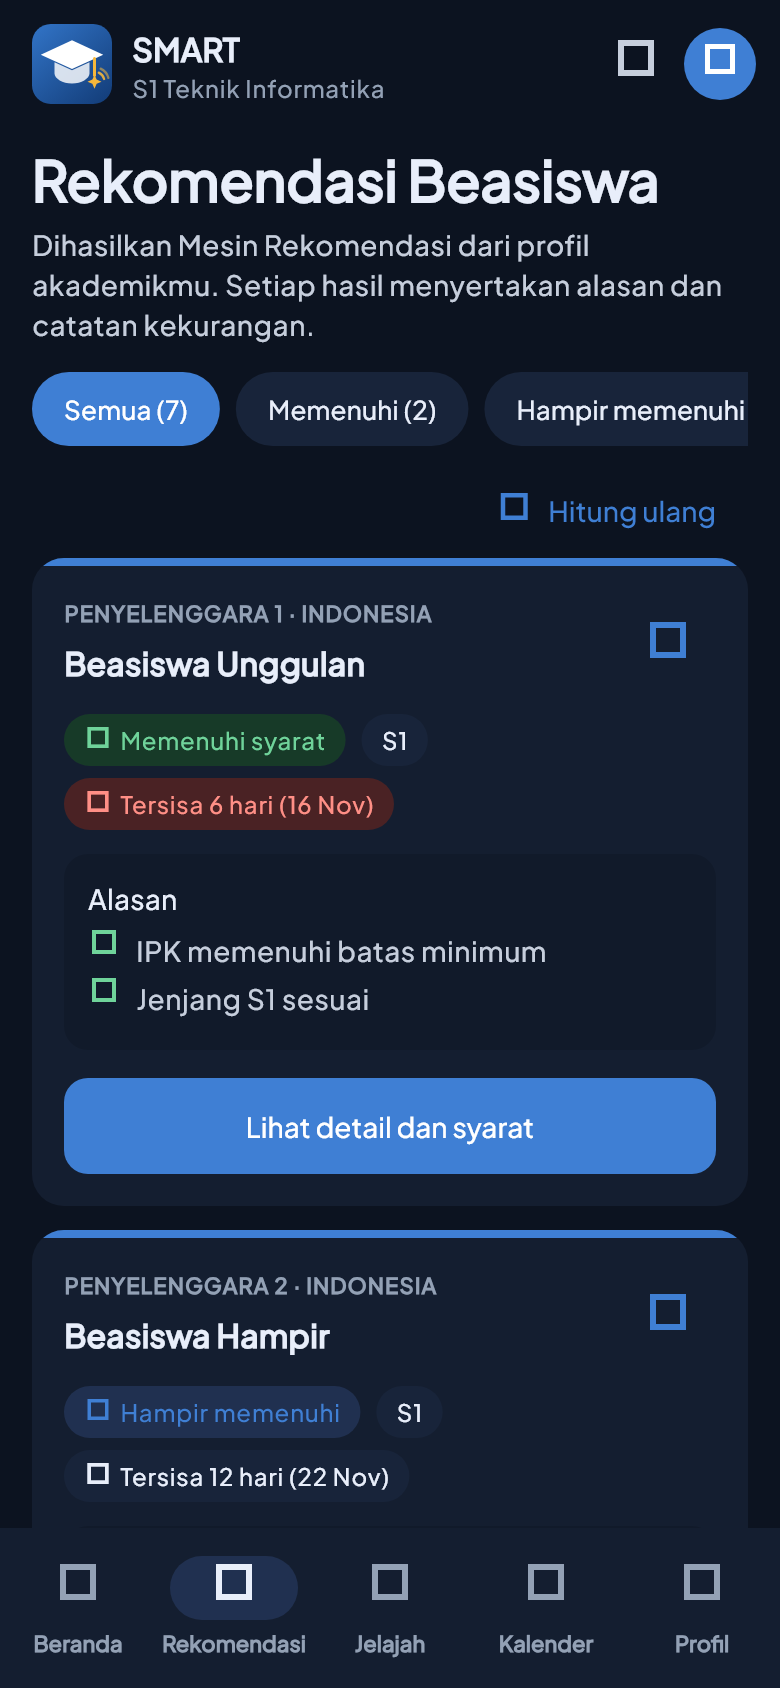
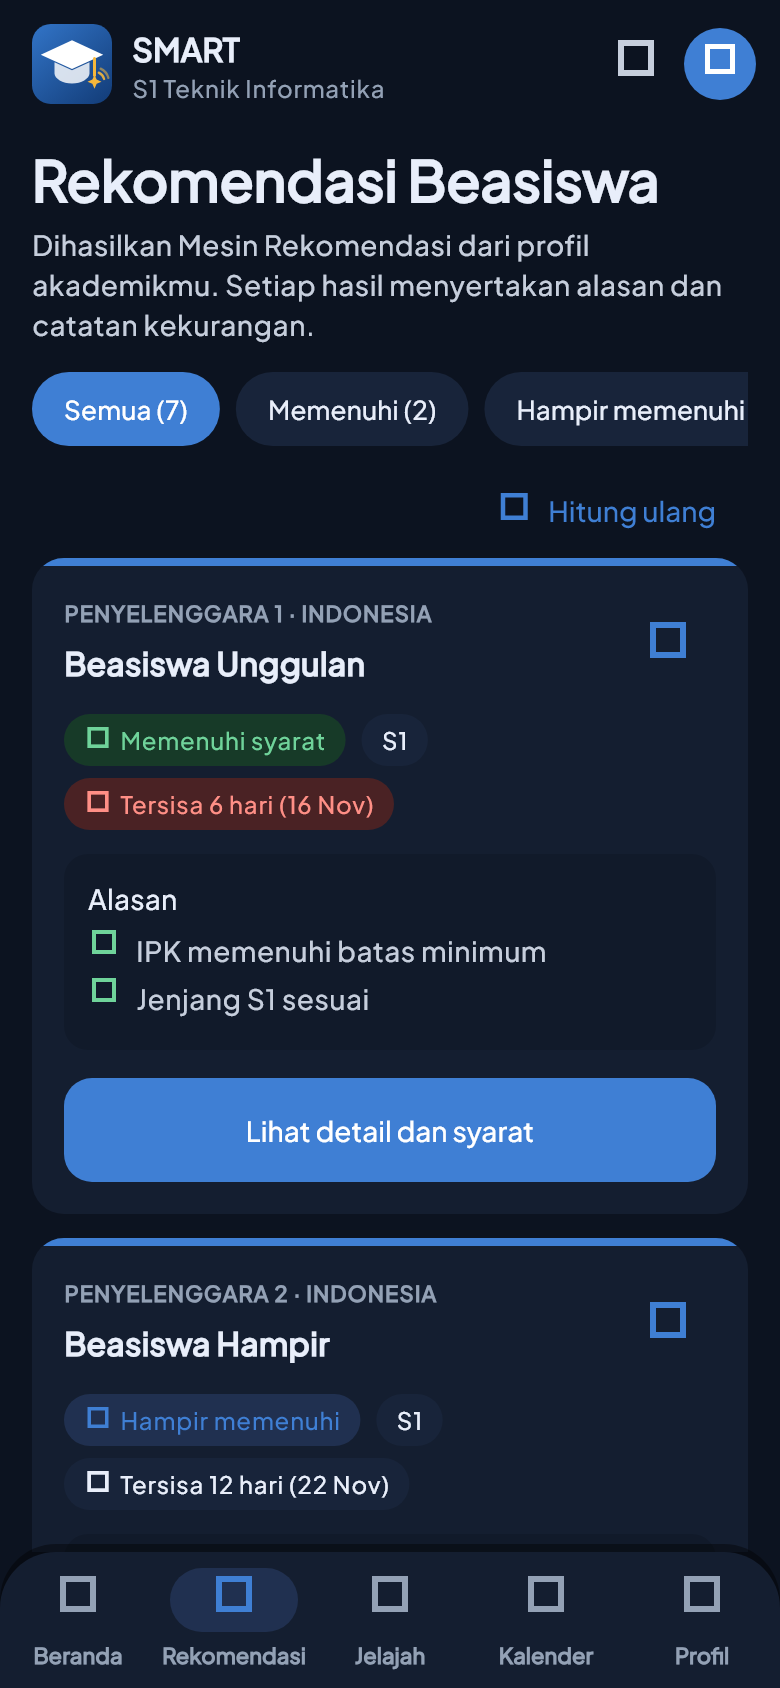
feat(mobile): beranda dengan hero bergradasi, navigasi bawah kapsul, tombol lebih besar

diff --git a/apps/mobile/lib/features/beranda/presentation/beranda_page.dart b/apps/mobile/lib/features/beranda/presentation/beranda_page.dart
@@ -41,75 +41,64 @@ class BerandaPage extends ConsumerWidget {
         child: ListView(
           padding: const EdgeInsets.fromLTRB(16, 8, 16, 24),
           children: [
-            if (p != null && (p.jenjang ?? '').isNotEmpty)
-              Padding(
-                padding: const EdgeInsets.only(bottom: 8),
-                child: Align(
-                  alignment: Alignment.centerLeft,
-                  child: ChipStatus(
-                    label: [
+            _Hero(
+              nama: p?.namaDepan ?? 'Mahasiswa',
+              info: p != null && (p.jenjang ?? '').isNotEmpty
+                  ? [
                       if (p.semester != null) 'Semester ${p.semester}',
                       p.jenjang!,
                       if ((p.ipk ?? '').isNotEmpty) 'IPK ${p.ipk}',
-                    ].join(' · '),
+                    ].join(' · ')
+                  : null,
+              terisi: kel?.terisi ?? 0,
+              total: kel?.total ?? 0,
+              onLengkapi: () => context.go('/profil'),
+              ringkasan: ringkasan.when(
+                loading: () => const SizedBox(
+                  height: 64,
+                  child: Center(
+                    child: CircularProgressIndicator(
+                      strokeWidth: 2,
+                      color: Colors.white,
+                    ),
                   ),
                 ),
-              ),
-            Text(
-              'Halo, ${p?.namaDepan ?? 'Mahasiswa'}',
-              style: t.headlineMedium,
-            ),
-            const SizedBox(height: 4),
-            Text(
-              'Lihat beasiswa yang paling sesuai dengan profilmu dan tenggat yang perlu dikejar.',
-              style: t.bodyMedium,
-            ),
-            const SizedBox(height: 16),
-            if (kel != null) _KartuProfil(terisi: kel.terisi, total: kel.total),
-            const SizedBox(height: 20),
-            const JudulBagian('Ringkasan Rekomendasi'),
-            const SizedBox(height: 8),
-            ringkasan.when(
-              loading: () => const SizedBox(height: 120, child: MemuatState()),
-              error: (e, _) => Padding(
-                padding: const EdgeInsets.symmetric(vertical: 16),
-                child: GalatState(
-                  pesan: pesanGalat(e),
-                  cobaLagi: () => ref.invalidate(ringkasanRekomendasiProvider),
+                error: (e, _) => Padding(
+                  padding: const EdgeInsets.symmetric(vertical: 8),
+                  child: Row(
+                    children: [
+                      Expanded(
+                        child: Text(
+                          pesanGalat(e),
+                          style: t.bodySmall?.copyWith(color: Colors.white),
+                        ),
+                      ),
+                      TextButton(
+                        style: TextButton.styleFrom(
+                          foregroundColor: Colors.white,
+                        ),
+                        onPressed: () =>
+                            ref.invalidate(ringkasanRekomendasiProvider),
+                        child: const Text('Coba lagi'),
+                      ),
+                    ],
+                  ),
                 ),
-              ),
-              data: (r) => IntrinsicHeight(
-                child: Row(
-                  crossAxisAlignment: CrossAxisAlignment.stretch,
+                data: (r) => Row(
+                  crossAxisAlignment: CrossAxisAlignment.start,
                   children: [
-                    Expanded(
-                      child: Metrik(
-                        angka: '${r.memenuhi}',
-                        label: 'Memenuhi',
-                        keterangan: 'Semua syarat',
-                        ikon: Icons.check_circle_outline,
-                        warna: Warna.sukses,
-                        latarIkon: Warna.suksesSoft,
-                      ),
+                    _Angka('${r.memenuhi}', 'Memenuhi', const Color(0xFF7BE0A4)),
+                    _Pemisah(),
+                    _Angka(
+                      '${r.hampirMemenuhi}',
+                      'Hampir memenuhi',
+                      const Color(0xFFFFD27A),
                     ),
-                    const SizedBox(width: 10),
-                    Expanded(
-                      child: Metrik(
-                        angka: '${r.hampirMemenuhi}',
-                        label: 'Hampir memenuhi',
-                        keterangan: 'Kurang sedikit',
-                        ikon: Icons.timelapse,
-                      ),
-                    ),
-                    const SizedBox(width: 10),
-                    Expanded(
-                      child: Metrik(
-                        angka: '${r.belumMemenuhi}',
-                        label: 'Belum memenuhi',
-                        keterangan: 'Syarat belum terpenuhi',
-                        ikon: Icons.lock_outline,
-                        warna: Warna.muted,
-                      ),
+                    _Pemisah(),
+                    _Angka(
+                      '${r.belumMemenuhi}',
+                      'Belum memenuhi',
+                      Colors.white70,
                     ),
                   ],
                 ),
@@ -232,47 +221,153 @@ class BerandaPage extends ConsumerWidget {
   }
 }
 
-class _KartuProfil extends StatelessWidget {
-  const _KartuProfil({required this.terisi, required this.total});
+class _Hero extends StatelessWidget {
+  const _Hero({
+    required this.nama,
+    required this.info,
+    required this.terisi,
+    required this.total,
+    required this.onLengkapi,
+    required this.ringkasan,
+  });
 
+  final String nama;
+  final String? info;
   final int terisi;
   final int total;
+  final VoidCallback onLengkapi;
+  final Widget ringkasan;
 
   @override
   Widget build(BuildContext context) {
     final t = Theme.of(context).textTheme;
-    final lengkap = terisi == total;
+    final lengkap = total > 0 && terisi == total;
     return Container(
-      padding: const EdgeInsets.all(16),
+      padding: const EdgeInsets.fromLTRB(20, 20, 20, 16),
       decoration: BoxDecoration(
-        color: Warna.kartu,
-        borderRadius: BorderRadius.circular(Jari.kartu),
-        boxShadow: bayanganKartu,
+        gradient: const LinearGradient(
+          begin: Alignment.topLeft,
+          end: Alignment.bottomRight,
+          colors: [Color(0xFF2F6FC0), Color(0xFF143F7C)],
+        ),
+        borderRadius: BorderRadius.circular(24),
       ),
       child: Column(
         crossAxisAlignment: CrossAxisAlignment.start,
         children: [
-          Row(
-            children: [
-              Icon(Icons.fact_check_outlined, color: Warna.primary),
-              const SizedBox(width: 10),
-              Expanded(child: Text('Kelengkapan Profil', style: t.titleMedium)),
-              TextButton(
-                onPressed: () => context.go('/profil'),
-                child: Text(lengkap ? 'Lihat' : 'Lengkapi'),
+          if (info != null)
+            Container(
+              margin: const EdgeInsets.only(bottom: 10),
+              padding: const EdgeInsets.symmetric(horizontal: 12, vertical: 5),
+              decoration: BoxDecoration(
+                color: Colors.white.withValues(alpha: 0.16),
+                borderRadius: BorderRadius.circular(Jari.bulat),
               ),
-            ],
-          ),
+              child: Text(
+                info!,
+                style: t.labelMedium?.copyWith(color: Colors.white),
+              ),
+            ),
           Text(
-            '$terisi dari $total data akademik terisi. Data yang lengkap membuat rekomendasi lebih tepat.',
-            style: t.bodyMedium,
+            'Halo, $nama',
+            style: t.headlineMedium?.copyWith(color: Colors.white),
           ),
-          const SizedBox(height: 10),
-          BarProgres(nilai: terisi / total),
+          const SizedBox(height: 4),
+          Text(
+            'Lihat beasiswa yang paling sesuai dengan profilmu dan tenggat yang perlu dikejar.',
+            style: t.bodyMedium?.copyWith(
+              color: Colors.white.withValues(alpha: 0.85),
+            ),
+          ),
+          const SizedBox(height: 18),
+          ringkasan,
+          const SizedBox(height: 14),
+          Container(
+            padding: const EdgeInsets.fromLTRB(14, 10, 6, 10),
+            decoration: BoxDecoration(
+              color: Colors.white.withValues(alpha: 0.12),
+              borderRadius: BorderRadius.circular(16),
+            ),
+            child: Row(
+              children: [
+                Expanded(
+                  child: Column(
+                    crossAxisAlignment: CrossAxisAlignment.start,
+                    children: [
+                      Text(
+                        'Kelengkapan Profil',
+                        style: t.labelLarge?.copyWith(color: Colors.white),
+                      ),
+                      const SizedBox(height: 6),
+                      ClipRRect(
+                        borderRadius: BorderRadius.circular(Jari.bulat),
+                        child: LinearProgressIndicator(
+                          value: total == 0 ? 0 : terisi / total,
+                          minHeight: 6,
+                          backgroundColor: Colors.white.withValues(alpha: 0.25),
+                          valueColor: const AlwaysStoppedAnimation(
+                            Color(0xFFF5B73B),
+                          ),
+                        ),
+                      ),
+                      const SizedBox(height: 4),
+                      Text(
+                        '$terisi dari $total data akademik terisi',
+                        style: t.bodySmall?.copyWith(color: Colors.white70),
+                      ),
+                    ],
+                  ),
+                ),
+                TextButton(
+                  style: TextButton.styleFrom(foregroundColor: Colors.white),
+                  onPressed: onLengkapi,
+                  child: Text(lengkap ? 'Lihat' : 'Lengkapi'),
+                ),
+              ],
+            ),
+          ),
         ],
       ),
     );
   }
+}
+
+class _Angka extends StatelessWidget {
+  const _Angka(this.angka, this.label, this.warna);
+
+  final String angka;
+  final String label;
+  final Color warna;
+
+  @override
+  Widget build(BuildContext context) {
+    final t = Theme.of(context).textTheme;
+    return Expanded(
+      child: Column(
+        children: [
+          Text(
+            angka,
+            style: t.headlineMedium?.copyWith(color: warna, fontSize: 32),
+          ),
+          const SizedBox(height: 2),
+          Text(
+            label,
+            textAlign: TextAlign.center,
+            style: t.bodySmall?.copyWith(color: Colors.white),
+          ),
+        ],
+      ),
+    );
+  }
+}
+
+class _Pemisah extends StatelessWidget {
+  @override
+  Widget build(BuildContext context) => Container(
+    width: 1,
+    height: 40,
+    color: Colors.white.withValues(alpha: 0.2),
+  );
 }
 
 class _BarisTenggat extends StatelessWidget {

diff --git a/apps/mobile/lib/core/theme/app_theme.dart b/apps/mobile/lib/core/theme/app_theme.dart
@@ -253,9 +253,9 @@ ThemeData buatTema({bool googleFonts = true, Palet w = Palet.terang}) {
       style: FilledButton.styleFrom(
         backgroundColor: w.primary,
         foregroundColor: Warna.putih,
-        minimumSize: const Size.fromHeight(48),
+        minimumSize: const Size.fromHeight(52),
         shape: RoundedRectangleBorder(
-          borderRadius: BorderRadius.circular(Jari.kartuDalam),
+          borderRadius: BorderRadius.circular(14),
         ),
         textStyle: tema.labelLarge,
       ),
@@ -263,10 +263,10 @@ ThemeData buatTema({bool googleFonts = true, Palet w = Palet.terang}) {
     outlinedButtonTheme: OutlinedButtonThemeData(
       style: OutlinedButton.styleFrom(
         foregroundColor: w.primary,
-        minimumSize: const Size.fromHeight(44),
+        minimumSize: const Size.fromHeight(48),
         side: BorderSide(color: w.outline),
         shape: RoundedRectangleBorder(
-          borderRadius: BorderRadius.circular(Jari.kartuDalam),
+          borderRadius: BorderRadius.circular(14),
         ),
         textStyle: tema.labelLarge,
       ),
@@ -278,8 +278,17 @@ ThemeData buatTema({bool googleFonts = true, Palet w = Palet.terang}) {
       ),
     ),
     navigationBarTheme: NavigationBarThemeData(
-      backgroundColor: w.kartu,
+      backgroundColor: Colors.transparent,
+      surfaceTintColor: Colors.transparent,
+      elevation: 0,
+      height: 68,
       indicatorColor: w.container3,
+      indicatorShape: const StadiumBorder(),
+      iconTheme: WidgetStateProperty.resolveWith(
+        (s) => IconThemeData(
+          color: s.contains(WidgetState.selected) ? w.primary : w.muted,
+        ),
+      ),
       labelTextStyle: WidgetStatePropertyAll(
         tema.labelSmall?.copyWith(letterSpacing: 0),
       ),

diff --git a/apps/mobile/lib/core/router.dart b/apps/mobile/lib/core/router.dart
@@ -1,4 +1,5 @@
 import 'package:flutter/material.dart';
+import 'theme/app_theme.dart';
 import 'package:flutter_riverpod/flutter_riverpod.dart';
 import 'package:go_router/go_router.dart';
 
@@ -115,14 +116,28 @@ class _Cangkang extends StatelessWidget {
   Widget build(BuildContext context) {
     return Scaffold(
       body: shell,
-      bottomNavigationBar: NavigationBar(
+      bottomNavigationBar: DecoratedBox(
+        decoration: BoxDecoration(
+          color: Warna.kartu,
+          borderRadius: const BorderRadius.vertical(top: Radius.circular(28)),
+          boxShadow: [
+            BoxShadow(
+              color: Colors.black.withValues(alpha: Warna.gelap ? 0.4 : 0.08),
+              blurRadius: 20,
+              offset: const Offset(0, -4),
+            ),
+          ],
+        ),
+        child: ClipRRect(
+          borderRadius: const BorderRadius.vertical(top: Radius.circular(28)),
+          child: NavigationBar(
         selectedIndex: shell.currentIndex,
         onDestinationSelected: (i) =>
             shell.goBranch(i, initialLocation: i == shell.currentIndex),
         destinations: const [
           NavigationDestination(
-            icon: Icon(Icons.dashboard_outlined),
-            selectedIcon: Icon(Icons.dashboard),
+            icon: Icon(Icons.space_dashboard_outlined),
+            selectedIcon: Icon(Icons.space_dashboard_rounded),
             label: 'Beranda',
           ),
           NavigationDestination(
@@ -146,6 +161,8 @@ class _Cangkang extends StatelessWidget {
             label: 'Profil',
           ),
         ],
+      ),
+        ),
       ),
     );
   }
